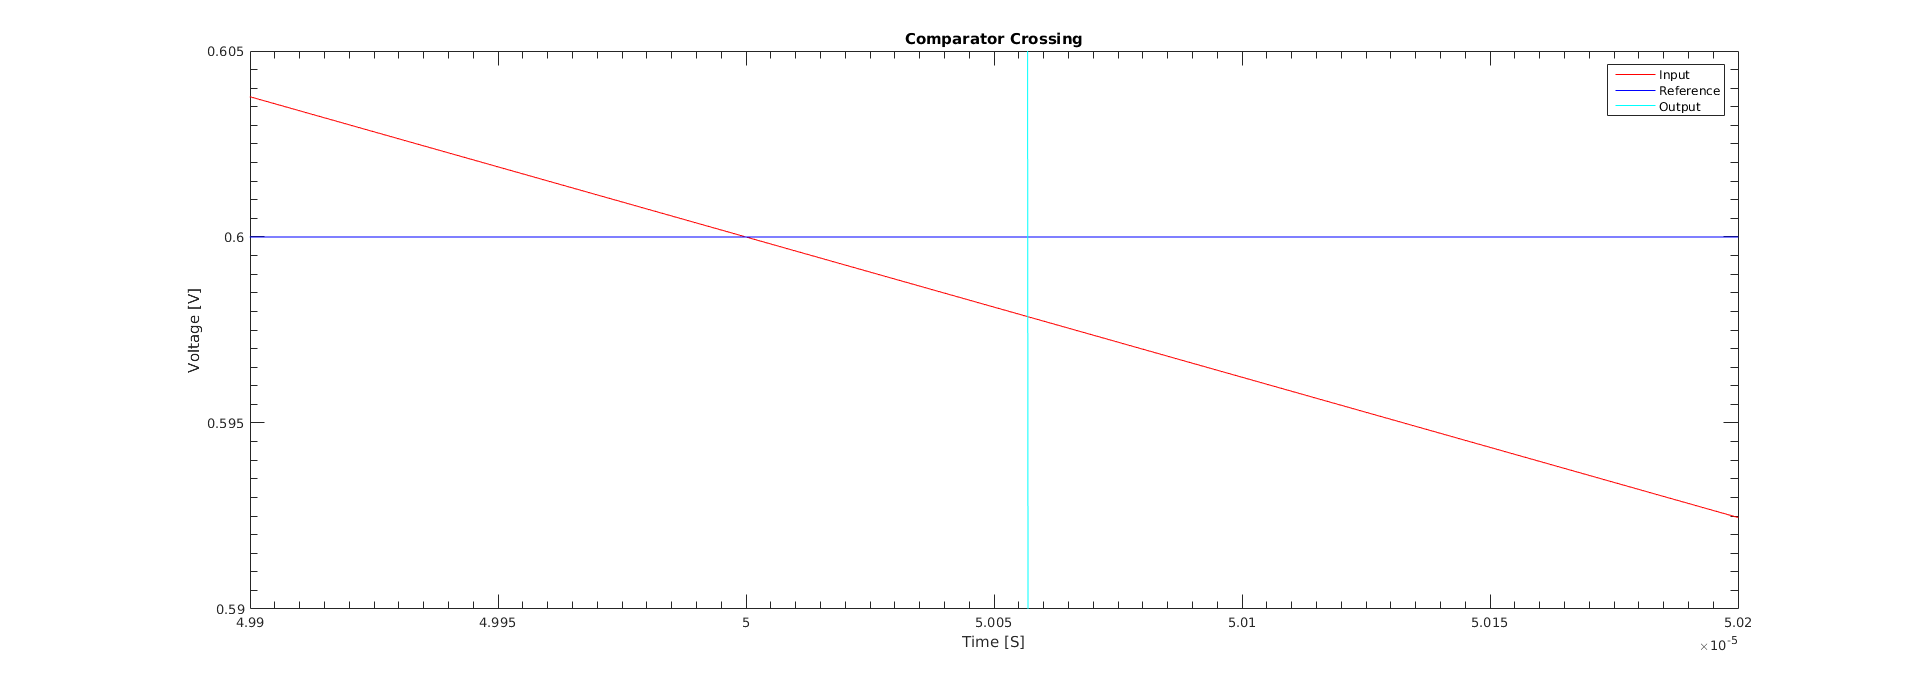
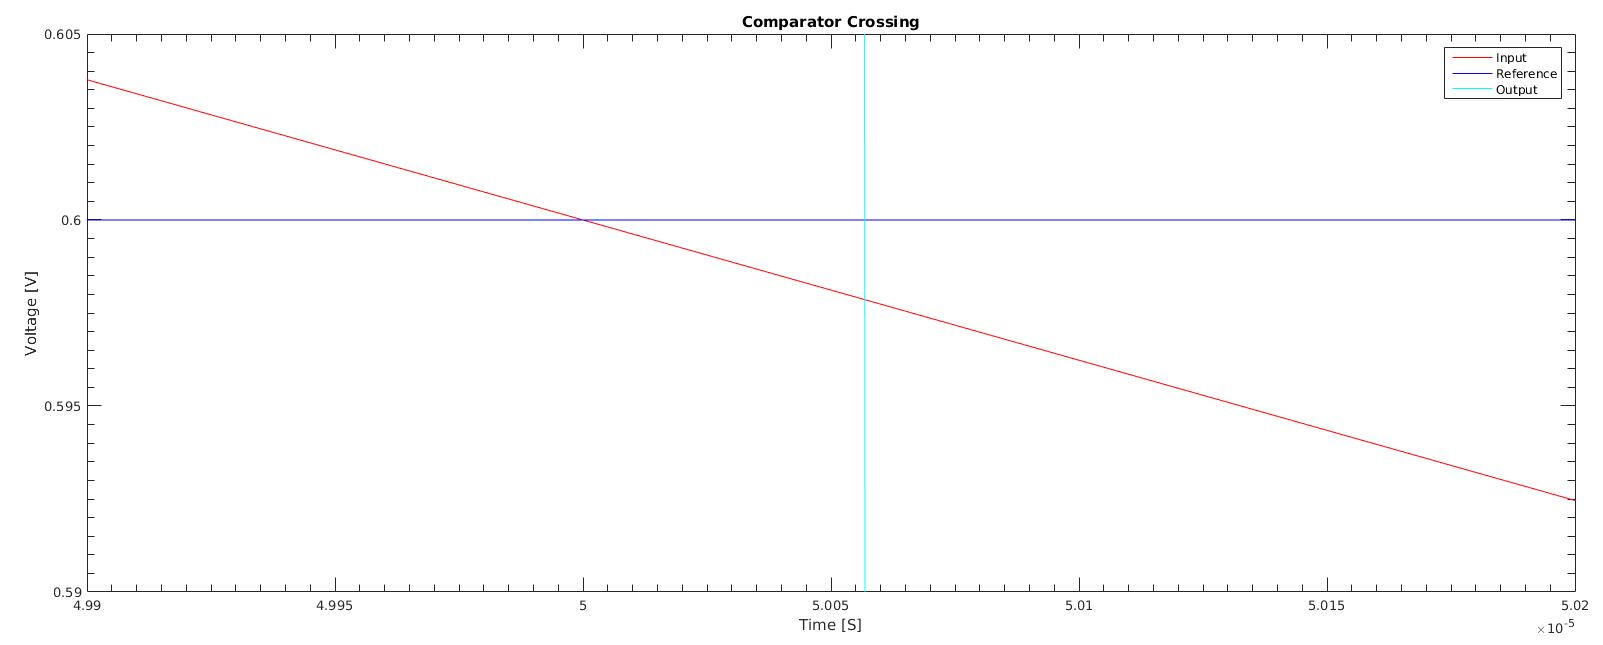
croppet bilder. skrevet om comp: delay, supply voltage, c-load, offset. Skrevet litt om gain

diff --git a/inf4420/report/main_report.tex b/inf4420/report/main_report.tex
@@ -733,19 +733,59 @@ The layout for the comparator is shown in Fig. (\ref{fig:layout:comparator}).
 
 
 \subsection{Requirement fulfilment}
+\subsubsection{Capacitive load and Supply Voltage}
+In the all the simulations the capactive load of \(50 f\) Farads have been in place. The performance of the comparator is (as good as) unaffected by the capacative load and handles this load well.
+The supply voltage we have used is \(V_{DD} = 1.2V\) and \(V_{SS} = 0V\).
 
-Gain requirement: 
+\subsubsection{Delay}
+Delay: The input to output time (lag test)...
+
+\subsubsection{Offset}
+The specifications states that the comparator should have a offset of less than 0.5 LSB, which in our case equals \(0.5 * 1.2V/2^8 \approx 2.344mV\). 
+Our comparator offset is dependent on the voltage at the reference input and the offset gets worse when the input is close too the voltage rails.
+In figure (\ref{figure:comparator:comparator_crossing}) there is a closeup of a typical offset with the reference at 600mV and a sine with \(600mV +    1.2V_{p-p} @ 10kHz\) at the input. 
+In this figure we observe the crossing of output with the input at approximately 597.773mV. This gives an offset of approximately 2.227mV, which is within the specifications. 
+However this requirement is not met over the entire input range.
+
+\begin{figure}[!ht]
+    \centering
+    \includegraphics[width=\textwidth]{img/comparator/comparator_crossing}
+    \caption{Comparator offset crossing}
+    \label{figure:comparator:comparator_crossing}
+\end{figure}
+
+
+\subsubsection{Gain}
+
+Gain requirement: \\
+
+\noindent
 \begin{math}
 K = VDD/V_{ref}/2^N \\
-VDD = V_{ref} => K = 2^N \\
+V_{DD} = V_{ref} => K = 2^N \\
 N = 8 => K = 256 \\
 \end{math}
+
+\noindent
+The specifications stats that the comparator should have a minimum gain as shown in the calculations above, which comes out too be 256.
+Looking at the figure (\ref{figure:comparator:comparator_linear_approx}) we can see that the transition time for the comparator is \(\Delta t = 50\mu S - 50.1\mu S = 0.1\mu S \).
+In this interval the comparator's gain is not linear. We can calculate an linear approximation as:
+
+\noindent
 \begin{math}
- \Delta t = 50\mu S - 50.1\mu S = 0.1\mu S \\
- \Delta V_{in} = 600mV - 596.206mV = 3.794mV \\
- \Delta V_{out} = 1.2V \\
+ \Delta V_{in}(t_1, t_2) = 600mV - 596.206mV = 3.794mV \\
+ \Delta V_{out}(t_1, t_2) = 1.2V \\
+ Gain = \frac{\Delta V_{out}}{\Delta V_{in}}\\
  Gain = \frac{1.2V}{3.794mV} = 316.289 \approx 316 \\
 \end{math}
+
+\begin{figure}[!ht]
+    \centering
+    \includegraphics[width=\textwidth]{img/comparator/comparator_crossing_full_with_linear_approx}
+    \caption{Comparator linear gain approximation}
+    \label{figure:comparator:comparator_linear_approx}
+\end{figure}
+
 
 Gain \( 316 > 256 \) requirement met.
 
